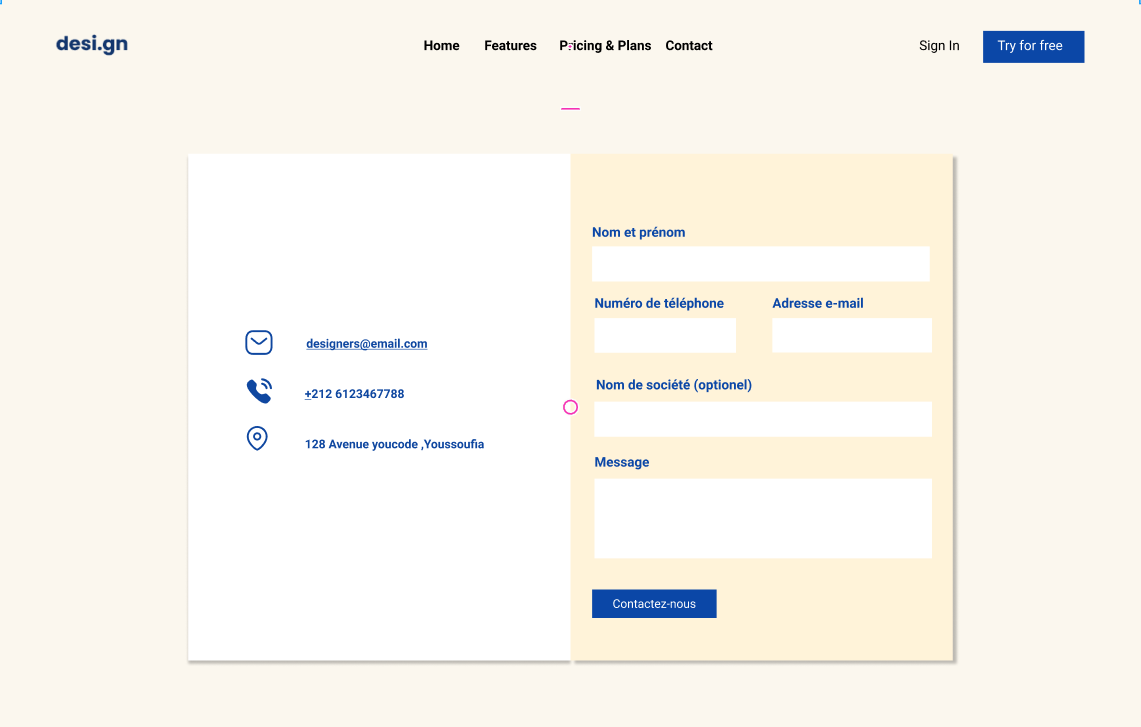
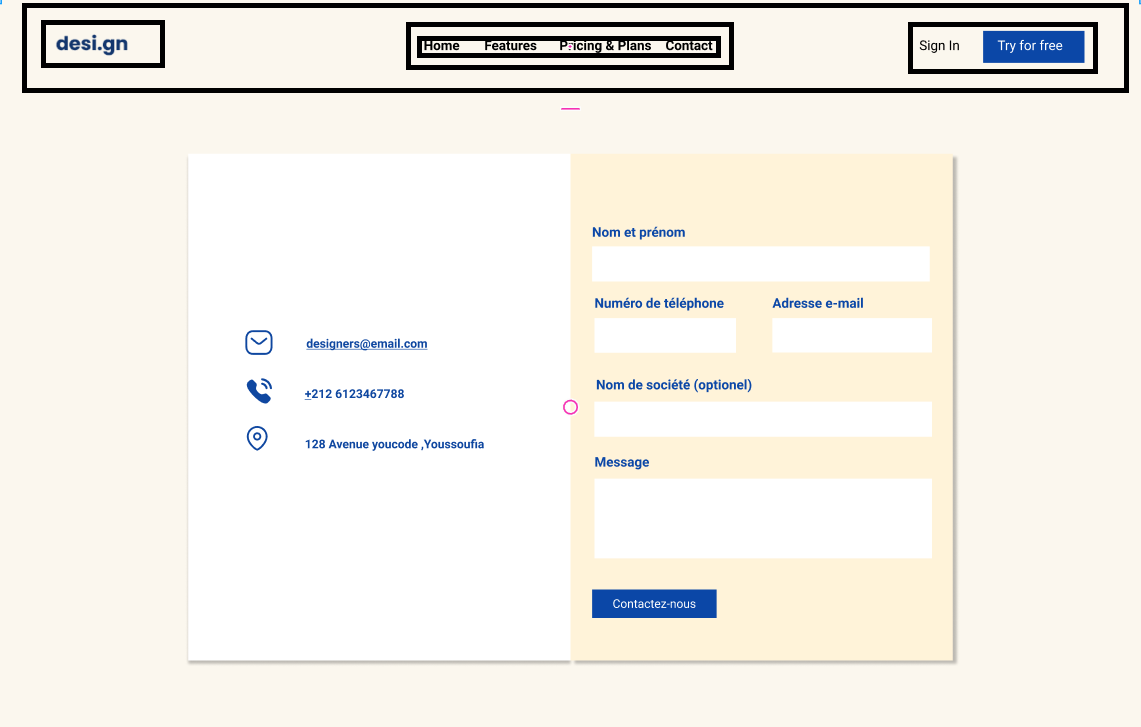
ajouter mon decoupage

Changed region(s): [[0.0, 0.0, 1.0, 0.1513]]

diff --git a/contact.html b/contact.html
@@ -8,10 +8,12 @@
     <link rel="stylesheet" href="Style.css">
 </head>
 <body>
-    <header >
-        <div class="cheader-div1">
+    <header>
+        <div class="header-all">
+            <div class=""></div>
 
         </div>
+
         
     </header>
     <main>

diff --git a/Style.css b/Style.css
@@ -1,3 +1,2 @@
-body{
-    background-color: bisque;
+
 }
